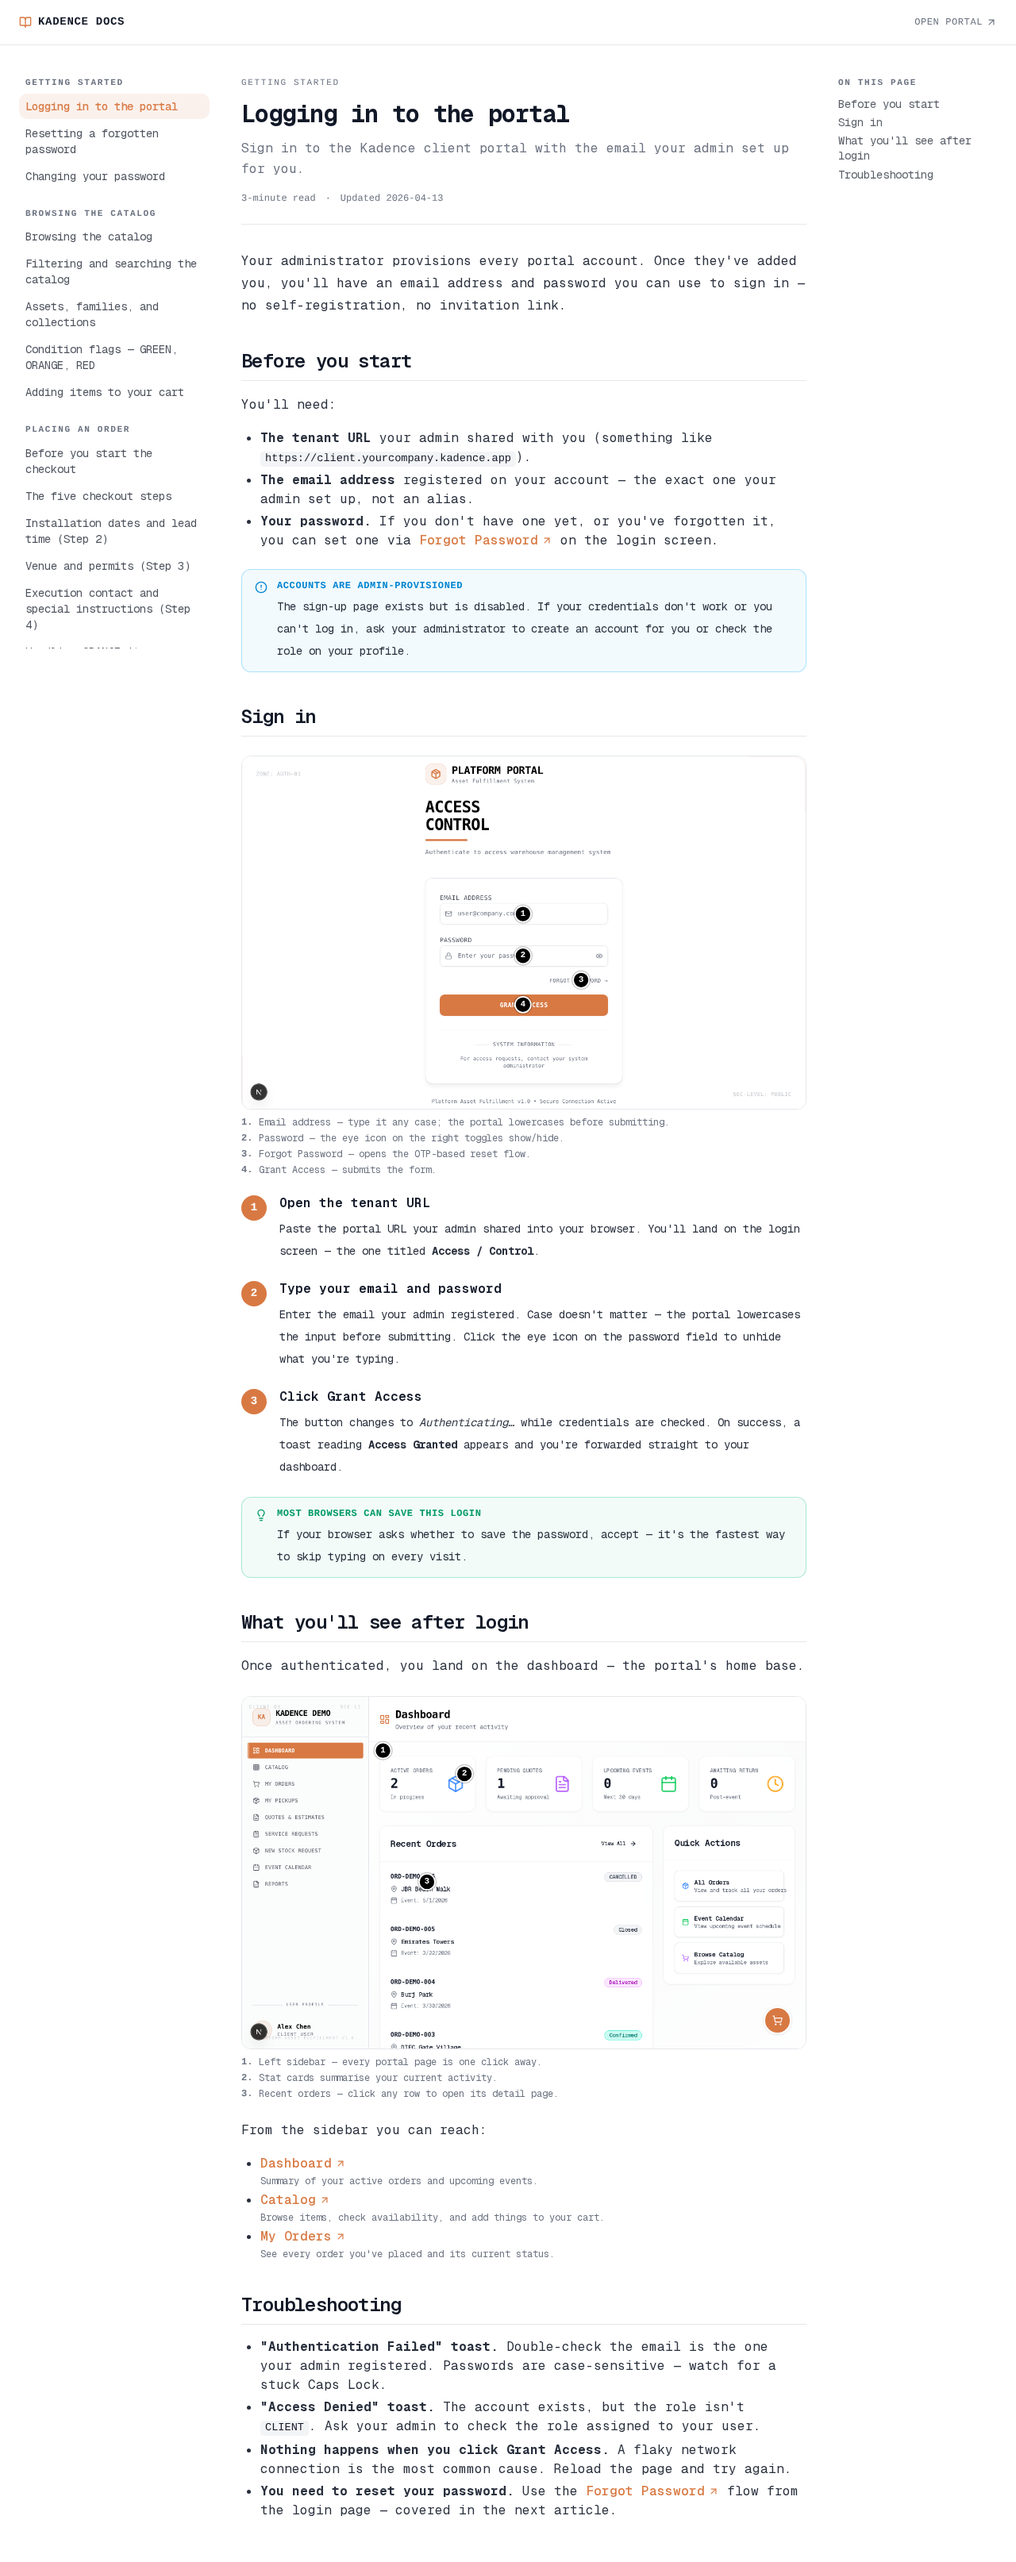
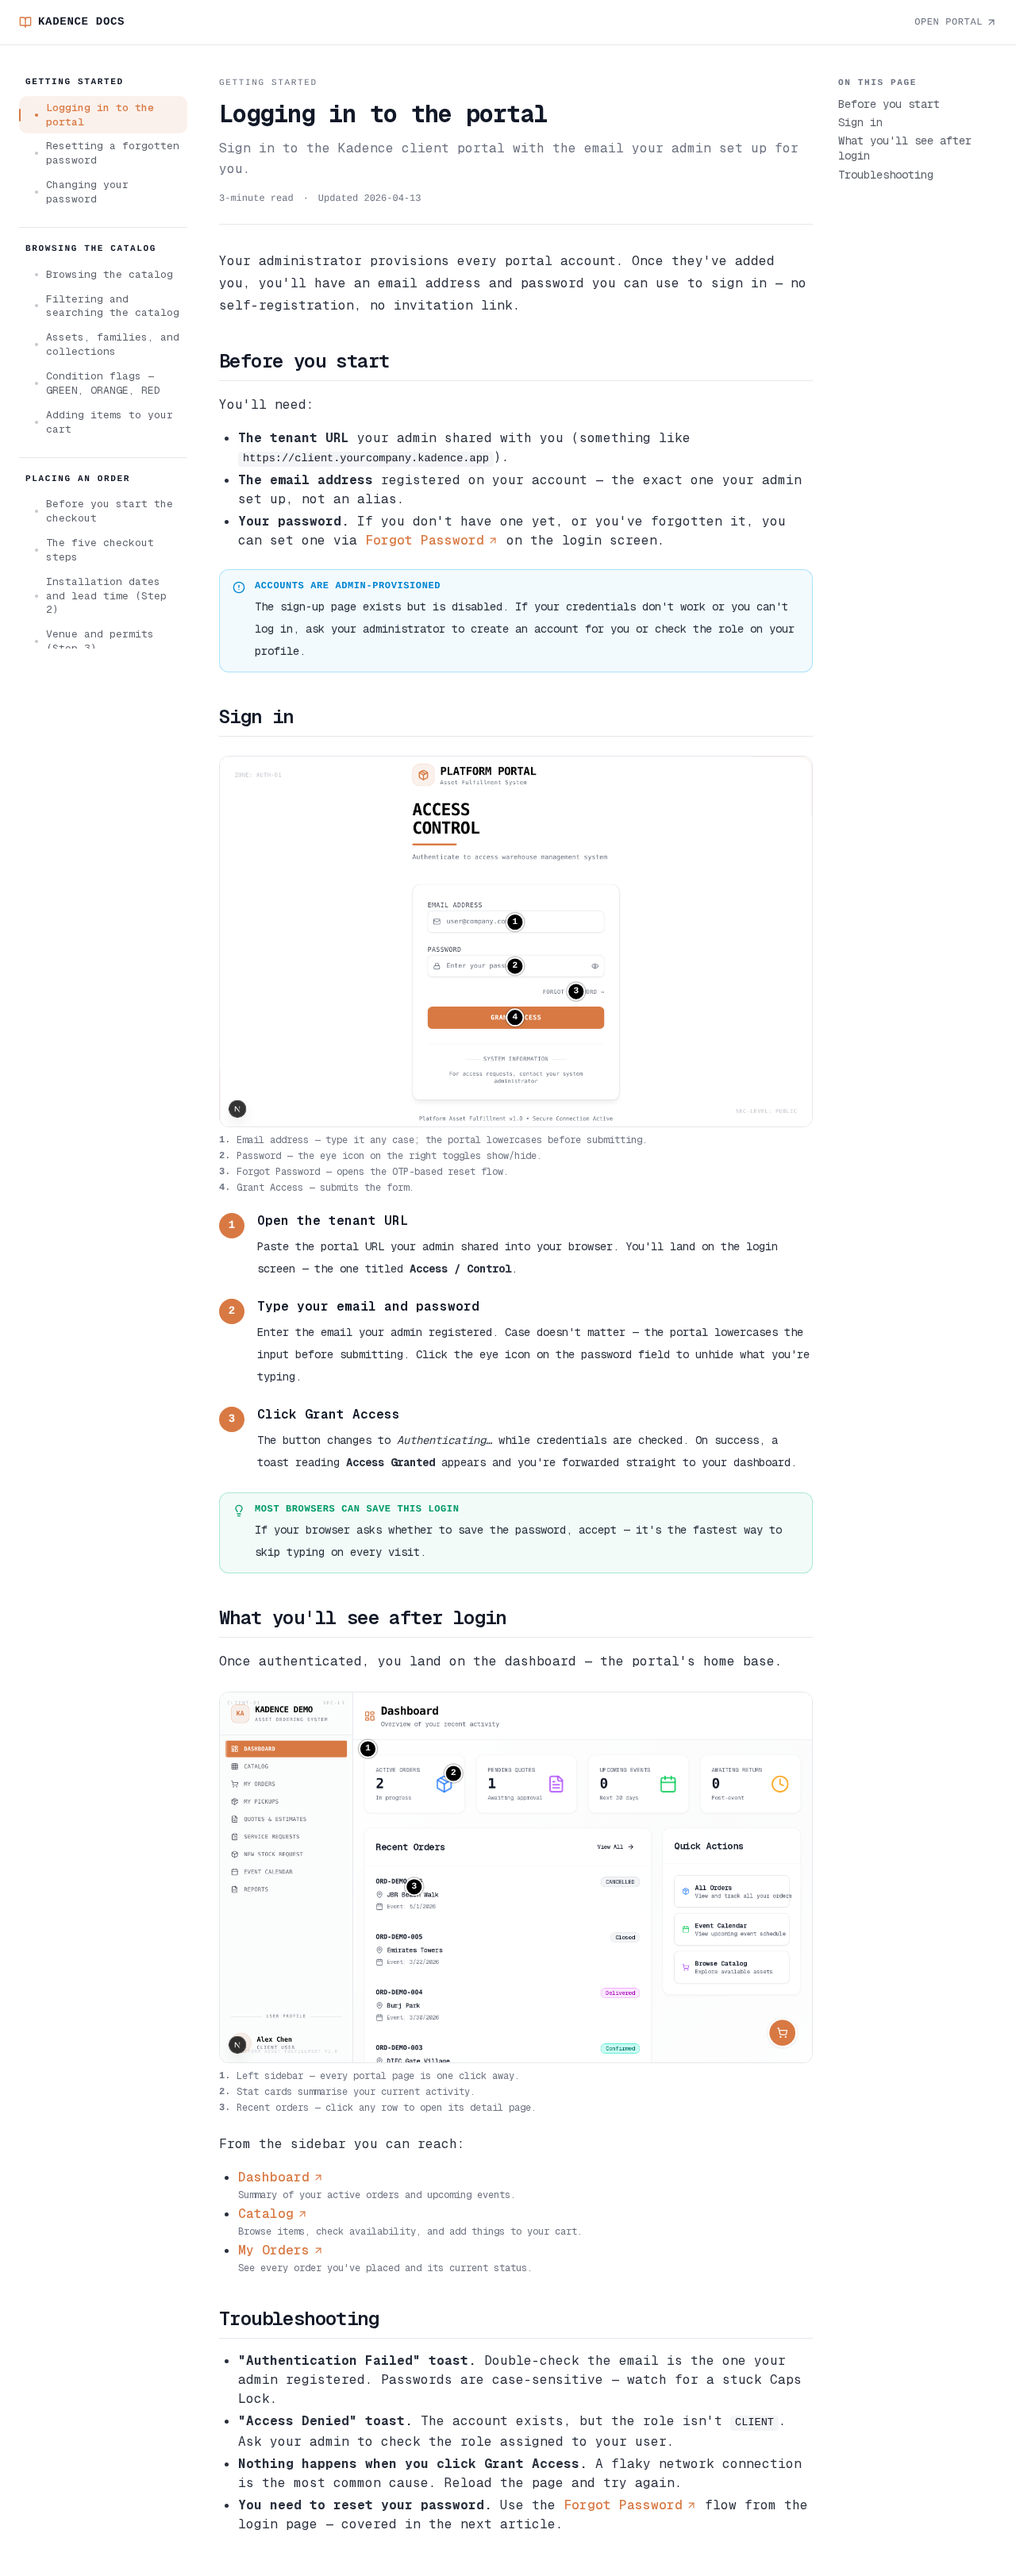
feat(docs): wider content + clearer nav hierarchy
Two UX tweaks in response to feedback that the content felt boxed-in
and the nav was too flat for non-technical readers to parse.

Wider content:
- DocsShell + DocsHeader outer container bumped from max-w-7xl
  (1280px) to max-w-screen-2xl (1536px).
- Grid slimmed from 240/1fr/200 + gap-10 to 220/1fr/200 + gap-8.
- Article cap bumped from max-w-3xl (768px) to max-w-4xl (896px).
  Net reading column grows from ~768px to ~1024px.

Clearer nav hierarchy (Option C in the proposal — always-open, strong
visual signals):
- Thin horizontal divider + vertical spacing between categories so
  readers immediately see "here's where one section ends and another
  begins."
- Category labels: bold, uppercase, foreground colour (up from muted).
- Article rows: indented, with a dot marker in the left gutter
  (tinted when inactive, solid primary when active).
- Active article: primary-tint pill background + short primary left
  accent bar — clear "you are here" at a glance.

No code logic changed, only classNames.

diff --git a/src/components/docs/DocsNav.tsx b/src/components/docs/DocsNav.tsx
@@ -11,24 +11,33 @@ interface DocsNavProps {
 }
 
 /**
- * Left sidebar nav. Categories are expanded by default; articles under
- * each show with status-aware styling. Active article is highlighted by
- * route match.
+ * Left sidebar nav. Categories are expanded by default with clear
+ * hierarchy: a thin divider separates categories, category titles are
+ * bold and foregrounded, articles are indented with a dot marker
+ * (filled primary when active, muted when not). Active article uses a
+ * pill-shaped highlight so non-technical readers immediately see where
+ * they are.
  *
- * Client component because it reads `usePathname` for active-state; the
- * tree itself is built server-side and passed as a plain-data prop.
+ * Client component because it reads `usePathname` for active-state;
+ * the tree itself is built server-side and passed as a plain-data prop.
  */
 export function DocsNav({ tree }: DocsNavProps) {
     const pathname = usePathname();
 
     return (
-        <nav aria-label="Documentation" className="space-y-6">
-            {tree.categories.map((category) => (
-                <div key={category.key} className="space-y-1">
-                    <p className="px-2 font-mono text-[11px] uppercase tracking-[0.15em] text-muted-foreground font-semibold">
+        <nav aria-label="Documentation" className="text-sm">
+            {tree.categories.map((category, index) => (
+                <div
+                    key={category.key}
+                    className={cn(
+                        "space-y-1",
+                        index > 0 && "mt-5 border-t border-border pt-5"
+                    )}
+                >
+                    <p className="mb-2 px-2 font-mono text-[11px] font-bold uppercase tracking-[0.15em] text-foreground">
                         {category.title}
                     </p>
-                    <ul className="space-y-0.5" role="list">
+                    <ul className="space-y-px" role="list">
                         {category.articles.map((article) => {
                             const href = docArticlePath(article.category, article.slug);
                             const isActive = pathname === href;
@@ -38,13 +47,28 @@ export function DocsNav({ tree }: DocsNavProps) {
                                         href={href}
                                         aria-current={isActive ? "page" : undefined}
                                         className={cn(
-                                            "block rounded-md px-2 py-1.5 text-sm transition-colors",
+                                            "group relative flex items-center gap-2.5 rounded-md py-1.5 pl-5 pr-2 text-[13px] leading-snug transition-colors",
                                             isActive
-                                                ? "bg-primary/10 text-primary font-medium"
-                                                : "text-foreground/75 hover:bg-muted hover:text-foreground"
+                                                ? "bg-primary/10 font-medium text-primary"
+                                                : "text-foreground/70 hover:bg-muted hover:text-foreground"
                                         )}
                                     >
-                                        {article.title}
+                                        {isActive && (
+                                            <span
+                                                aria-hidden="true"
+                                                className="absolute left-0 top-1/2 h-4 w-0.5 -translate-y-1/2 rounded-full bg-primary"
+                                            />
+                                        )}
+                                        <span
+                                            aria-hidden="true"
+                                            className={cn(
+                                                "inline-block h-1 w-1 shrink-0 rounded-full transition-colors",
+                                                isActive
+                                                    ? "bg-primary"
+                                                    : "bg-muted-foreground/40 group-hover:bg-muted-foreground/70"
+                                            )}
+                                        />
+                                        <span className="flex-1">{article.title}</span>
                                     </Link>
                                 </li>
                             );

diff --git a/src/components/docs/DocsShell.tsx b/src/components/docs/DocsShell.tsx
@@ -19,9 +19,9 @@ export function DocsShell({ tree, companyName, aside, children }: DocsShellProps
     return (
         <div className="min-h-screen bg-background text-foreground">
             <DocsHeader companyName={companyName} />
-            <div className="mx-auto max-w-7xl px-6 py-10">
-                <div className="grid gap-10 lg:grid-cols-[240px_minmax(0,1fr)_200px]">
-                    <aside className="hidden lg:block lg:sticky lg:top-20 lg:self-start lg:max-h-[calc(100vh-5rem)] lg:overflow-y-auto">
+            <div className="mx-auto max-w-screen-2xl px-6 py-10">
+                <div className="grid gap-8 lg:grid-cols-[220px_minmax(0,1fr)_200px]">
+                    <aside className="hidden lg:block lg:sticky lg:top-20 lg:self-start lg:max-h-[calc(100vh-5rem)] lg:overflow-y-auto lg:pr-2">
                         <DocsNav tree={tree} />
                     </aside>
                     <main className="min-w-0">{children}</main>

diff --git a/src/components/docs/DocsHeader.tsx b/src/components/docs/DocsHeader.tsx
@@ -15,7 +15,7 @@ export function DocsHeader({ companyName }: DocsHeaderProps) {
 
     return (
         <header className="sticky top-0 z-20 border-b border-border bg-background/80 backdrop-blur supports-[backdrop-filter]:bg-background/60">
-            <div className="mx-auto flex h-14 max-w-7xl items-center justify-between px-6">
+            <div className="mx-auto flex h-14 max-w-screen-2xl items-center justify-between px-6">
                 <Link
                     href="/docs"
                     className="inline-flex items-center gap-2 font-mono text-sm font-semibold uppercase tracking-wider"

diff --git a/src/app/docs/[...slug]/page.tsx b/src/app/docs/[...slug]/page.tsx
@@ -69,7 +69,7 @@ export default async function DocsArticlePage({ params }: PageProps) {
             companyName={platform.company_name}
             aside={<TableOfContents headings={headings} />}
         >
-            <article className="max-w-3xl">
+            <article className="max-w-4xl">
                 <div className="mb-8 space-y-3 pb-6 border-b border-border">
                     <p className="font-mono text-[11px] uppercase tracking-[0.15em] text-muted-foreground">
                         {article.frontmatter.category.replace(/-/g, " ")}
